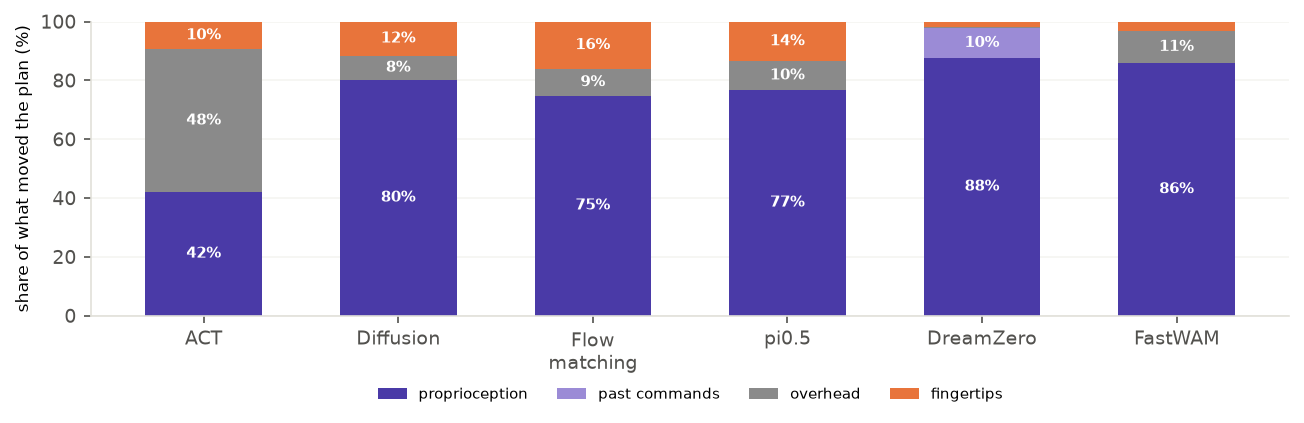
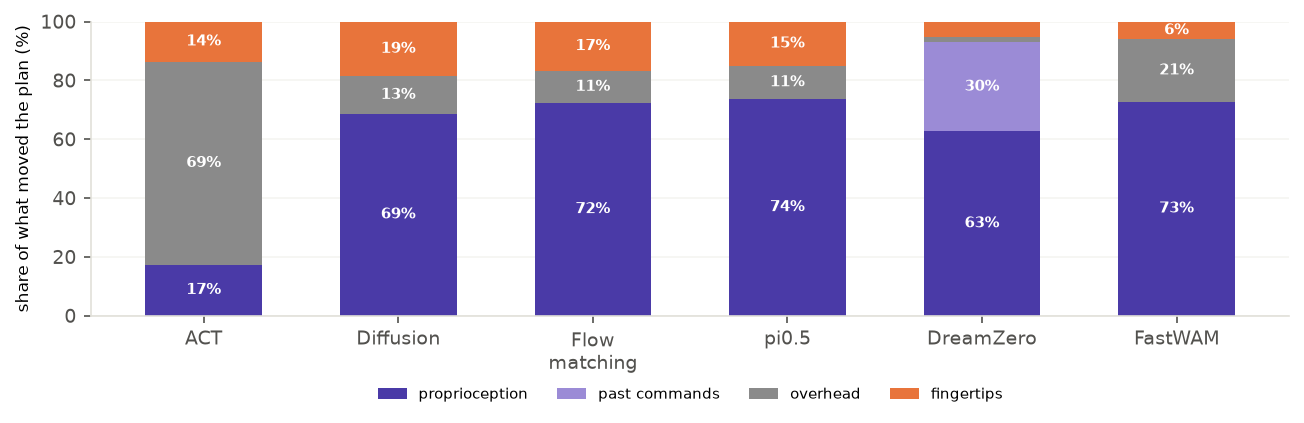
Input contributions recomputed with the training-mean joint baseline, and checked against all zeros
ACT is the one camera-led model (overhead 69 %, joints 17 %, was 42 %).
DreamZero: joints 63 %, past commands 30 %, cameras 7 %. The all-zeros check
moves shares by a few points and reorders no model's inputs.

Claude-Session: https://claude.ai/code/session_0196vDjqm3Zo6sQgqQLb5qwQ

diff --git a/tool/report_enrich.py b/tool/report_enrich.py
@@ -411,6 +411,65 @@ def draw_sensor_shift(
     return out
 
 
+# -- input contributions under two baselines --------------------------------
+
+
+def stream_shares(path: Path) -> "dict[str, float]":
+    """Mean share (%) of proprioception, past commands, overhead and fingertips."""
+    payload = json.loads(path.read_text())
+    totals: "dict[str, list[float]]" = {}
+    for episode in payload["episodes"].values():
+        for frame in episode["frames"]:
+            streams = (frame.get("occlusion") or {}).get("streams", {})
+            for name, effect in streams.items():
+                totals.setdefault(name, []).append(effect["share"])
+    mean = {k: 100 * float(np.mean(v)) for k, v in totals.items()}
+    return {
+        "proprioception": mean.get("state", 0.0),
+        "past commands": mean.get("past actions", 0.0),
+        "overhead": mean.get("central", 0.0),
+        "fingertips": sum(
+            v for k, v in mean.items() if "gripper" in k or k == "tactile_quad"
+        ),
+    }
+
+
+def write_baseline_table(root: Path, out: Path) -> "Path | None":
+    """Shares under the default baseline beside the all-zeros check, per model."""
+    lines = [
+        r"\begin{tabular}{lrrrrrrrr}",
+        r"\toprule",
+        r"& \multicolumn{4}{c}{mean colour, training-mean joints} & "
+        r"\multicolumn{4}{c}{all zeros} \\",
+        r"\cmidrule(lr){2-5}\cmidrule(lr){6-9}",
+        r"model & joints & past & overhead & fingertips & joints & past & "
+        r"overhead & fingertips \\",
+        r"\midrule",
+    ]
+    found = False
+    for key, label, _ in ALL_MODELS:
+        cells: "list[str]" = []
+        for baseline in ("mean", "zeros"):
+            path = root / f"occ-{key}-{baseline}" / "attribution.json"
+            if not path.is_file():
+                cells = []
+                break
+            shares = stream_shares(path)
+            cells += [
+                f"{shares[k]:.0f}"
+                for k in ("proprioception", "past commands", "overhead", "fingertips")
+            ]
+        if cells:
+            found = True
+            lines.append(f"{label} & " + " & ".join(cells) + r" \\")
+    if not found:
+        return None
+    lines += [r"\bottomrule", r"\end{tabular}"]
+    out.write_text("\n".join(lines) + "\n")
+    print(f"  baseline table -> {out}")
+    return out
+
+
 def main() -> int:
     parser = argparse.ArgumentParser(description=__doc__.splitlines()[0])
     parser.add_argument("--recordings", nargs="*", default=[])
@@ -426,6 +485,9 @@ def main() -> int:
     )
     parser.add_argument("--tag", default="", help="suffix for the grasp outputs")
     parser.add_argument("--dataset", default=None, help="for the sensor-shift figure")
+    parser.add_argument(
+        "--occlusion", default=None, help="root of occ-<model>-<baseline> runs"
+    )
     parser.add_argument("--out", required=True)
     args = parser.parse_args()
 
@@ -443,6 +505,8 @@ def main() -> int:
     write_recordings_table(groups, out / "recordings_table.tex")
     if args.dataset:
         draw_sensor_shift(Path(args.dataset).expanduser(), out / "sensor_shift.png")
+    if args.occlusion:
+        write_baseline_table(Path(args.occlusion), out / "baseline_table.tex")
     curves = pairs(args.curves)
     if draw_curves(curves, out / "curves.png"):
         curve_summary(curves)

diff --git a/documents/paper/training_analysis/sections/03_experiments.tex b/documents/paper/training_analysis/sections/03_experiments.tex
@@ -362,17 +362,21 @@ training run (Appendix~\ref{sec:threats}).}
 
 
 
-Figure~\ref{fig:streams} shows which inputs the policies actually use. ACT
-relies most on the overhead camera, then proprioception, with the fingertips
-last. Diffusion and pi0.5 rely mostly on proprioception: about three quarters
-of what moves pi0.5's plan is where the arms are. \new{FastWAM leans on
-proprioception most of all, 86\,\%, with 11\,\% for the overhead camera and
-3\,\% for the fingertips.} \gr{Flow matching spreads its use most
-evenly: 75\,\% proprioception, 9\,\% the overhead camera and 16\,\% the
-fingertips, the largest fingertip share of any model.}\rev{ DreamZero leans on proprioception most of all
-(88\,\%), then on its past commands (10\,\%); all five cameras together move
-its plan by only 2.3\,\%. The model that plans the next ten steps second best
-barely reads its cameras to do it.} \pending{input contributions recomputed with the training-mean joint baseline, and the all-zeros check.}
+\gr{Figure~\ref{fig:streams} shows which inputs the models actually use. ACT is
+the only model led by a camera: the overhead view carries 69\,\% of what moves
+its plan, the joint positions 17\,\% and the fingertips 14\,\%. Diffusion, flow
+matching, pi0.5 and FastWAM all rely mostly on the joint positions (69 to 74\,\%);
+of these, Diffusion, flow matching and pi0.5 give the fingertips more (15 to
+19\,\%) than the overhead camera (11 to 13\,\%), while FastWAM gives the overhead
+camera 21\,\% and the fingertips 6\,\%. DreamZero leans on its joint positions
+(63\,\%) and its past commands (30\,\%); all five cameras together move its plan
+by only 7\,\%, so the model that plans the next ten steps second best barely
+reads its cameras to do it. Replacing everything with zeros instead changes
+these shares by a few points and the order of no model's inputs
+(Appendix Table~\ref{tab:baselines}). An earlier version of this measure
+replaced the joints by one number, each frame's average over all twelve
+joints, a pose no arm takes; it overstated the joints' share, most for ACT (42\,\%
+then, 17\,\% now).}
 
 \begin{figure}[t]
   \centering

diff --git a/tool/report_figures.py b/tool/report_figures.py
@@ -2091,17 +2091,18 @@ PATCH_DECKS = (
 
 
 #: The input-contribution runs behind the all-model share figure, on held-out
-#: demonstration 58: every 5th frame, 60 frames, the mean baseline.
+#: demonstration 58: every 5th frame, 60 frames; images at their mean colour,
+#: joints (and DreamZero's past commands) at their training mean.
 STREAM_DECKS = (
-    ("ACT", "outputs/analysis/2026-09-18/heldout-act/attribution.json"),
-    ("Diffusion", "outputs/analysis/2026-09-18/heldout-diffusion/attribution.json"),
+    ("ACT", "outputs/analysis/2026-10-09/occ-act-mean/attribution.json"),
+    ("Diffusion", "outputs/analysis/2026-10-09/occ-diffusion-mean/attribution.json"),
     (
         "Flow\nmatching",
-        "outputs/analysis/2026-10-08/patches-flowmatch_resize/attribution.json",
+        "outputs/analysis/2026-10-09/occ-flowmatch-mean/attribution.json",
     ),
-    ("pi0.5", "outputs/analysis/2026-09-25/heldout-pi05/attribution.json"),
-    ("DreamZero", "outputs/analysis/2026-10-08/patches-dreamzero/attribution.json"),
-    ("FastWAM", "outputs/analysis/2026-09-27/heldout-fastwam/attribution.json"),
+    ("pi0.5", "outputs/analysis/2026-10-09/occ-pi05-mean/attribution.json"),
+    ("DreamZero", "outputs/analysis/2026-10-09/occ-dreamzero-mean/attribution.json"),
+    ("FastWAM", "outputs/analysis/2026-10-09/occ-fastwam-mean/attribution.json"),
 )
 
 

diff --git a/documents/paper/training_analysis/sections/A_appendix.tex b/documents/paper/training_analysis/sections/A_appendix.tex
@@ -430,6 +430,19 @@ still 7.4, above the 5.3 of the last seven.
 
 
 
+\gr{\begin{table}[h]
+  \centering
+  \caption{Input contribution (\%) of each model's inputs under the baseline of
+  Figure~\ref{fig:streams} (images at their own mean colour, joints and past
+  commands at their training mean) and under all zeros (black images, every
+  joint and command at zero), on test demonstration 58. Each half of a row sums
+  to 100 up to rounding; ``past'' is DreamZero's past commands.}
+  \label{tab:baselines}
+  \footnotesize
+  \setlength{\tabcolsep}{4pt}
+  \input{tables/baseline_table}
+\end{table}}
+
 \section{Threats to validity}
 \label{sec:threats}
 

diff --git a/documents/paper/training_analysis/tables/baseline_table.tex b/documents/paper/training_analysis/tables/baseline_table.tex
@@ -1,0 +1,14 @@
+\begin{tabular}{lrrrrrrrr}
+\toprule
+& \multicolumn{4}{c}{mean colour, training-mean joints} & \multicolumn{4}{c}{all zeros} \\
+\cmidrule(lr){2-5}\cmidrule(lr){6-9}
+model & joints & past & overhead & fingertips & joints & past & overhead & fingertips \\
+\midrule
+ACT & 17 & 0 & 69 & 14 & 23 & 0 & 65 & 13 \\
+Diffusion & 69 & 0 & 13 & 19 & 74 & 0 & 11 & 15 \\
+pi0.5 & 74 & 0 & 11 & 15 & 72 & 0 & 9 & 18 \\
+Flow matching & 72 & 0 & 11 & 17 & 72 & 0 & 10 & 18 \\
+DreamZero & 63 & 30 & 2 & 5 & 70 & 23 & 1 & 5 \\
+FastWAM & 73 & 0 & 21 & 6 & 86 & 0 & 9 & 5 \\
+\bottomrule
+\end{tabular}

diff --git a/documents/paper/training_analysis/sections/01_introduction.tex b/documents/paper/training_analysis/sections/01_introduction.tex
@@ -76,7 +76,7 @@ The main findings are these.
   \item \textbf{A frame-averaged image score can miss a correct prediction} of
   a small moving part, such as a gripper.
   \item \rev{\textbf{DreamZero hardly reads its cameras to plan:} all five
-  together move its plan by about 2\,\%; proprioception and its own past
+  together move its plan by about \gr{7}\,\%; proprioception and its own past
   commands carry the rest.}
 \end{itemize}
 
